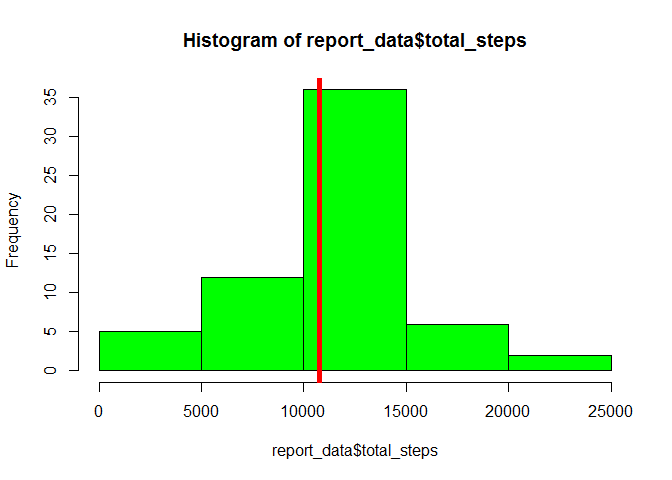
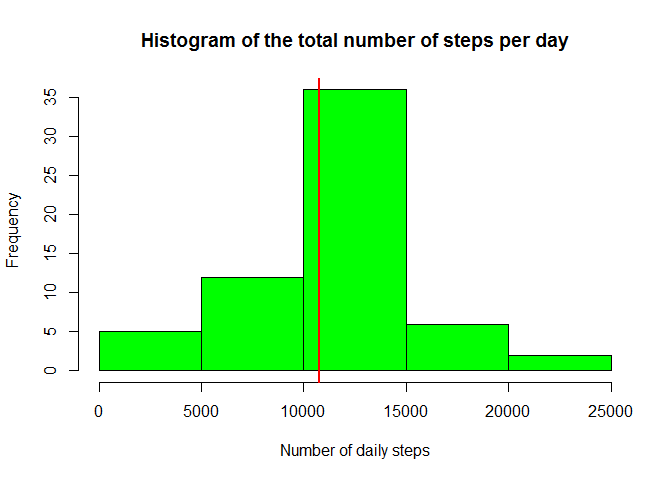
Adding final version for PeerAssessment

Changed region(s): [[0.1875, 0.0625, 0.8438, 0.125], [0.4688, 0.1562, 0.5, 0.7812], [0.4062, 0.9062, 0.6562, 0.9688]]

diff --git a/PA1_template.html b/PA1_template.html
@@ -80,7 +80,7 @@ df_activity_complete&lt;- df_activity[complete.cases(df_activity[,1]), ]
 report_data&lt;-sqldf(&quot;select date, sum(steps) as total_steps from 
                    df_activity_complete group by date&quot;)</code></pre>
 <p>We can now create the requested histogram. I will also plot an additional line with the <strong>mean</strong> value.</p>
-<pre class="r"><code>hist(report_data$total_steps, col='green', 
+<pre class="r"><code>hist(report_data$total_steps, col='green',
      main = 'Histogram of the total number of steps per day', 
      xlab = 'Number of daily steps')
 abline(v=mean(report_data$total_steps), col = 'red', lwd = 2)</code></pre>
@@ -137,9 +137,11 @@ df_new_activity&lt;-rbind(df_activity_complete, df_filled_activity)</code></pre>
 <pre class="r"><code>report_data&lt;-sqldf(&quot;select date, sum(steps) as total_steps from df_new_activity group by date&quot;)
 
 #Plots
-hist(report_data$total_steps, col='green')
-abline(v=median(report_data$total_steps), col='red', lwd=5)</code></pre>
[1 lines of base64/hex data omitted]
+hist(report_data$total_steps, col='green',
+     main = 'Histogram of the total number of steps per day', 
+     xlab = 'Number of daily steps')
+abline(v=median(report_data$total_steps), col='red', lwd=2)</code></pre>
[1 lines of base64/hex data omitted]
 <pre class="r"><code>#values to report
 median_value&lt;-median(report_data$total_steps)
 mean_value&lt;-mean(report_data$total_steps)</code></pre>

diff --git a/PA1_template.md b/PA1_template.md
@@ -35,7 +35,7 @@ I will also plot an additional line with the **mean** value.
 
 
 ```r
-hist(report_data$total_steps, col='green', 
+hist(report_data$total_steps, col='green',
      main = 'Histogram of the total number of steps per day', 
      xlab = 'Number of daily steps')
 abline(v=mean(report_data$total_steps), col = 'red', lwd = 2)
@@ -139,8 +139,10 @@ Now, it is necessary to recalculate the report data to extend it to the full dat
 report_data<-sqldf("select date, sum(steps) as total_steps from df_new_activity group by date")
 
 #Plots
-hist(report_data$total_steps, col='green')
-abline(v=median(report_data$total_steps), col='red', lwd=5)
+hist(report_data$total_steps, col='green',
+     main = 'Histogram of the total number of steps per day', 
+     xlab = 'Number of daily steps')
+abline(v=median(report_data$total_steps), col='red', lwd=2)
 ```
 
 ![](PA1_template_files/figure-html/unnamed-chunk-8-1.png) 
